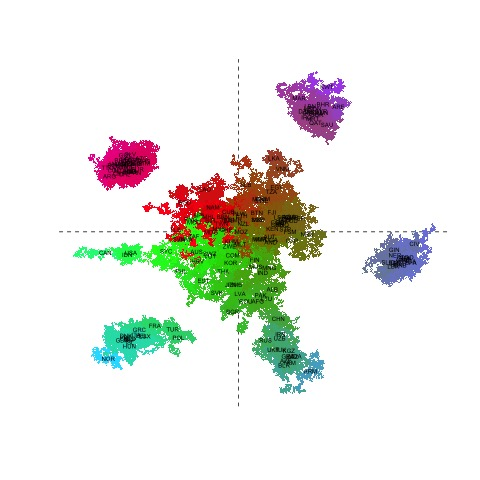
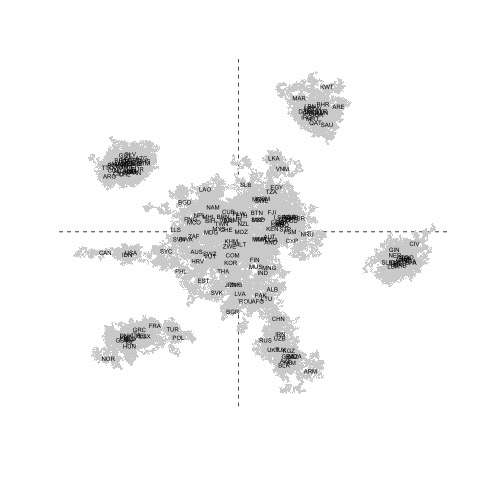
bw plots in main and complete repl readme

diff --git a/Paper/finalSubmission/Paper/5_fAidEmp.tex b/Paper/finalSubmission/Paper/5_fAidEmp.tex
@@ -22,7 +22,7 @@ The results of this analysis are shown below in a coefficient plot in Figure \re
 \begin{figure}
 	\centering
 	\includegraphics[width=1\textwidth]{intCoef.pdf}
-	\caption{Coefficient plots for the main analyses with interaction terms across each dependent variable (humanitarian aid, civil society aid and development aid).  Coefficients that are significant at the 5\% level are shaded in blue if the coefficient is positive and red if the coefficient is negative. Coefficients that are not significant at the 5\% level are shaded in gray. }
+	\caption{Coefficient plots for the main analyses with interaction terms across each dependent variable (humanitarian aid, civil society aid and development aid).}
 	\label{fig:intCoef}
 \end{figure}
 \FloatBarrier

diff --git a/replArchive/README.md b/replArchive/README.md
@@ -1,6 +1,6 @@
 ## Replication instructions for the paper
 
-The replication archive is organized into two directories (note that these files are also available on Github at [https://github/s7minhas/conflictEvolution](https://github.com/s7minhas/conflictEvolution)):
+The replication archive is organized into two directories (note that these files are also available on Github at [https://github/s7minhas/foreignAid/](https://github.com/s7minhas/foreignAid)):
 
 - **main**: contains the data files and scripts necessary to reproduce the main results in the paper
 - **appendix**: contains the data files and scripts necessary to reproduce the results in the appendix
@@ -12,51 +12,45 @@ Replicating the figures and tables in the **main** text will take only a few min
 All of the analyses reported in the manuscript and the appendix are run with the following specification (further information on packages used in the analysis is included at the end of the README): 
 
 ```
-R version 3.5.0 (2018-04-23)
+R version 3.6.0 (2019-04-26)
 Platform: x86_64-apple-darwin15.6.0 (64-bit)
-Running under: macOS High Sierra 10.13.6
+Running under: macOS Mojave 10.14.4
 
 Matrix products: default
-BLAS: /System/Library/Frameworks/Accelerate.framework/Versions/A/Frameworks/vecLib.framework/Versions/A/libBLAS.dylib
-LAPACK: /Library/Frameworks/R.framework/Versions/3.5/Resources/lib/libRlapack.dylib
+BLAS:   /System/Library/Frameworks/Accelerate.framework/Versions/A/Frameworks/vecLib.framework/Versions/A/libBLAS.dylib
+LAPACK: /Library/Frameworks/R.framework/Versions/3.6/Resources/lib/libRlapack.dylib
 
 locale:
-[1] C
+[1] en_US.UTF-8/en_US.UTF-8/en_US.UTF-8/C/en_US.UTF-8/en_US.UTF-8
 
 attached base packages:
-[1] stats     graphics  grDevices utils     datasets  methods   base     
+[1] stats     graphics  grDevices utils     datasets  methods   base
 
 loaded via a namespace (and not attached):
-[1] compiler_3.5.0
+[1] compiler_3.6.0
 ```
 
 #### Running the scripts
 
-Scripts should be run in the following order (each script assumes that the working directory matches the directory in which the script is stored): 
+Scripts should be run in the following order (each script assumes that the working directory matches the directory in which the script is stored, if you need to modify change the paths specified in **setup.R**): 
 
-- **figure2.R**: Creates longitudinal, spatial visualization of conflict and stores resulting figure in `main/floats/figure2.pdf`.
-- **figure3.R**: Creates network visualization of conflict in Nigeria from 2000-2016 and stores resulting figure in `main/floats/figure3.pdf`.
-- **figure4.R**: Estimates parameters using AME in the paper and saves resulting model to `main/ameResults.rda`. Visualizations of model results are stored in `main/floats/figure4_top.pdf` and `main/floats/figure4_bottom.pdf`.
-    + Original results from the authors are already included, if `main/ameResults.rda` is deleted, then this script will take approximately one hour to run. 
-- **figure5.R**: Creates network visualization of conflict in Nigeria from 2000-2016 highlighting pre and post Boko Haram changes in relationships  and stores resulting figure in `main/floats/figure5.pdf`
-- **figure6.R**: Visualizes additive sender/receiver effects from AME framework  and stores resulting figure in `main/floats/figure6.pdf`. For this script to run `main/ameResults.rda` must be present.
-- **figure7.R**: Visualizes multiplicative effects from AME framework and stores resulting figure in `main/floats/figure7.pdf`. For this script to run `main/ameResults.rda` must be present.
-- **figure8.R**: Conducts cross-validation to compare model performance and saves resulting model to `main/ameCrossValResults.rda` and `glmCrossValResults.rda`. Visualization of performance between AME and GLM models are stored in `main/floats/figure8_a.pdf` and `main/floats/figure8_b.pdf`. 
-    + Original results from the authors are already included, if `main/ameCrossValResults.rda` is deleted, then this script will take approximately one hour to run assuming that the script is run in parallel using six cores.
+- **figure1.R**: Descriptive chart of aid flows between the US and Iran. Resulting figure stored in `main/floats/figure1.pdf`.
+- **figure2.R**: Generates visualization of estimated latent space relations across the ally, IGO, and UN voting variables. Resulting figures stored in `main/floats/figure2_[ally, igo, un].jpg`.
+- **figure3.R**: Runs main set of models discussed in the paper and stores model object in `main/mods/mainMod.rda`. Also generates a summary of the results in a coefficient plot, which is saved to `main/floats/figure3.pdf`.
+- **figure4.R**: Conducts and visualizes a substantive effects analysis of the interaction between strategic distance and number of disasters on aid flows. Resulting figure is stored in `main/floats/figure4.pdf`
+- **figure5_7.R**: Runs models on aid flows using varying lags of strategic distance and number of disasters on aid flows and stores the model objects in `main/mods/mainMod_lag3.rda` and `main/mods/mainMod_lag5.rda`. A separate visualization is produced for each dependent variable. Results are stored in `main/floats/figure[5, 6, 7].pdf`.
 
-We have also included all the analysis necessary to generate the results in the appendix. The appendix related scripts are labeled as `figureA[1-9].R` and `tableA1.R`. Relevant graphics from the appendix scripts will be stored in the `appendix/floats/` directory.
+We have also included all the analysis necessary to generate the results in the appendix. The appendix are organized in a similar format as those in the `main` directory. 
 
 #### R package build notes
 
-Below we provide the version of each of the libraries that our project relies on (each library was built using R 3.5.0). Additionally, please note that we use a tailored version of [Peter Hoff's AMEN package](http://pdhoff.github.io/amen/). Installing the version of AMEN that is used in this paper can be done  with the `devtools` package by running the following command in an R session: `devtools::install_github('s7minhas/amen', ref='pa2018_version')`.
+Below we provide the version of each of the libraries that our project relies on (each library was built using R 3.6.0). 
 
-|                    |                     |                |                   |
-|:-------------------|:--------------------|:---------------|:------------------|
-|RColorBrewer: 1.1-2 |ROCR: 1.0-7          |s7minhas/amen: 1.4       |btergm: 1.9.1      |
-|caTools: 1.17.1     |countrycode: 0.16    |cshapes: 0.6    |doParallel: 1.0.11 |
-|foreach: 1.4.4      |ggmap: 2.6.1         |ggplot2: 3.0.0  |igraph: 1.2.1      |
-|latex2exp: 0.4.0    |lmtest: 0.9-36       |magrittr: 1.5   |network: 1.13.0.1  |
-|plyr: 1.8.4         |qgraph: 1.5 |randomForest: 4.6-14 |reshape2: 1.4.3       |
-|tidyr: 0.8.0       |xtable: 1.8-2                     |                |                   |
+|                 |                |                   |                |
+|:----------------|:---------------|:------------------|:---------------|
+|cshapes: 0.6     |devtools: 2.0.2 |doParallel: 1.0.14 |dplyr: 0.8.0.1  |
+|foreach: 1.4.4   |ggplot2: 3.1.1  |grid: 3.6.0        |gridExtra: 2.3  |
+|latex2exp: 0.4.0 |lme4: 1.1-21    |MASS: 7.3-51.4     |reshape2: 1.4.3 |
+|xtable: 1.8-4 |    |     | |
 
 If you find any errors or have any further questions, please address them to me via email at minhassh@msu.edu.
